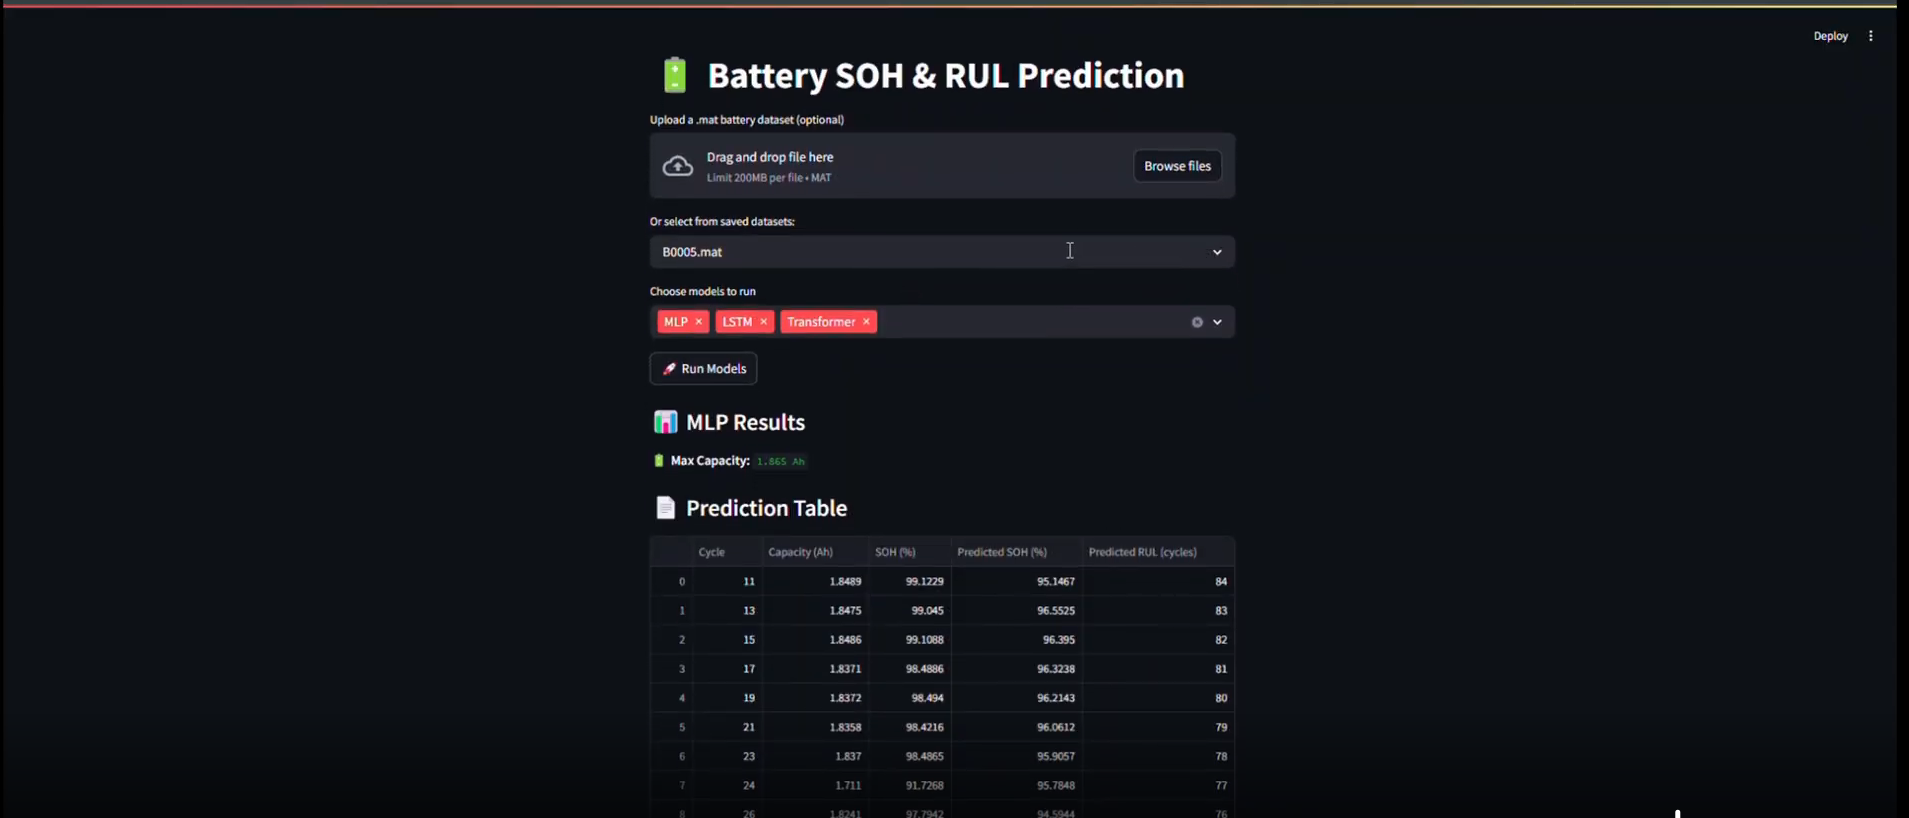
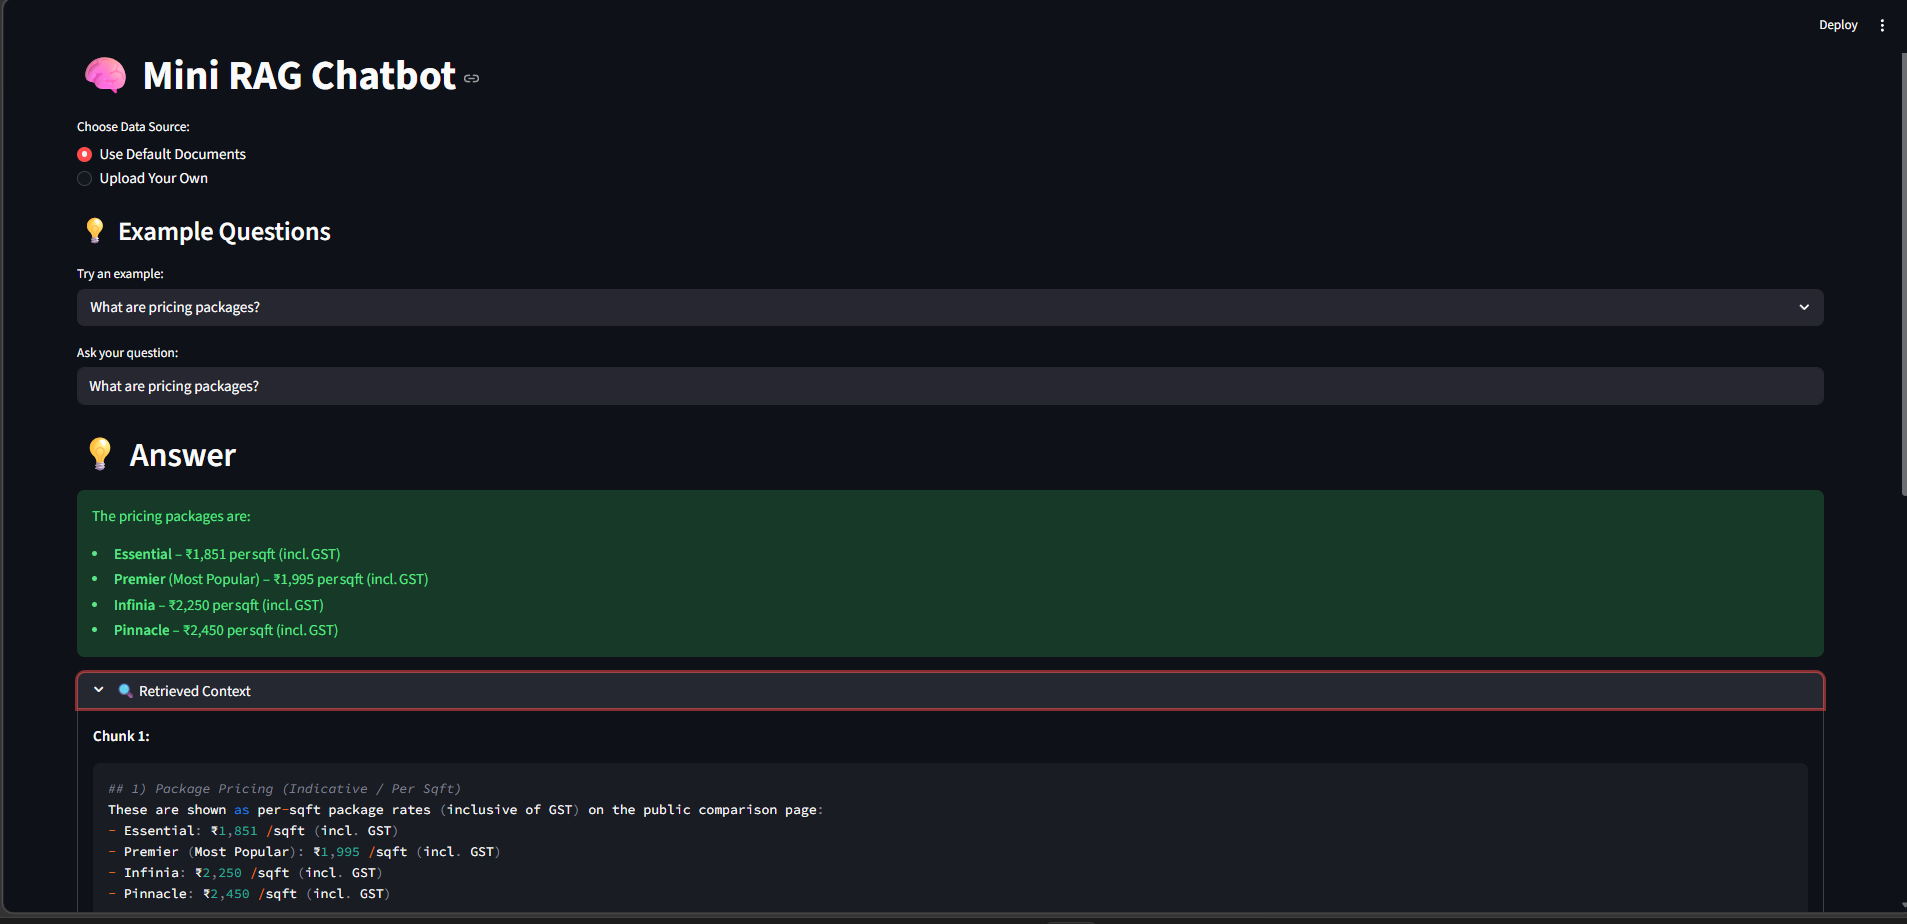
project fixes

diff --git a/src/components/ProjectsSection.jsx b/src/components/ProjectsSection.jsx
@@ -3,84 +3,123 @@ import { ArrowRight, ExternalLink, Github } from "lucide-react";
 const projects = [
   {
     id: 1,
-    title: "Smart Campus Energy Monitoring System",
+    title: "Smart Campus Energy Monitoring & Load Forecasting",
     description:
-      "Real-time IoT energy monitoring system using ESP32 and industrial Modbus smart meters, featuring a secure React dashboard and low-latency cloud data pipeline.",
+      "IoT energy management platform deployed at NIT Andhra Pradesh using ESP32, Modbus smart meters, Firebase, and FastAPI. Processes 100+ days of energy data from two campus buildings and provides real-time monitoring and ML-based load forecasting.",
     image: "/projects/project1.png",
-    tags: ["ESP32", "Modbus", "Firebase", "React", "IoT"],
+    tags: ["ESP32", "Modbus RTU", "Firebase", "FastAPI", "React", "ML"],
     demoUrl: "https://energy-meter-realtime-visualization.vercel.app/",
-    githubUrl: "https://github.com/chaitanya-mutyala/energy-meter-realtime-visualization",
+    githubUrl:
+      "https://github.com/chaitanya-mutyala/energy-meter-realtime-visualization",
   },
+
   {
     id: 2,
-    title: "PassTheTorch – Placement Journey Platform",
+    title: "SplitCalsi",
     description:
-      "A platform for students to share placement and GATE preparation journeys with structured content, search, and an AI-powered assistant for instant insights.",
+      "Modern expense-sharing platform inspired by Splitwise with group management, debt simplification, settlements, and real-time balance tracking powered by Supabase.",
     image: "/projects/project2.png",
-    tags: ["React", "Appwrite", "TailwindCSS", "LLM", "Full Stack"],
+    tags: ["React", "JavaScript", "Supabase", "PostgreSQL", "Full Stack"],
+    demoUrl: "https://splitcalsi.vercel.app",
+    githubUrl: "https://github.com/chaitanya-mutyala/splitcalsi",
+  },
+
+  {
+    id: 3,
+    title: "Mini RAG Chatbot",
+    description:
+      "Retrieval-Augmented Generation chatbot using FAISS vector search, Sentence Transformers embeddings, and OpenRouter LLMs to generate grounded responses from uploaded documents.",
+    image: "/projects/project3.png",
+    tags: ["Python", "RAG", "FAISS", "LLM", "NLP"],
+    demoUrl: "https://rag-chatbot-chai.streamlit.app/",
+    githubUrl: "https://github.com/chaitanya-mutyala/rag",
+  },
+
+  {
+    id: 4,
+    title: "Battery SoH & RUL Prediction",
+    description:
+      "Machine learning project for Battery State of Health (SoH) and Remaining Useful Life (RUL) estimation using NASA battery degradation datasets with preprocessing, feature engineering, and forecasting models.",
+    image: "/projects/project4.png",
+    tags: ["Python", "LSTM", "Time Series", "Forecasting"],
+    demoUrl:
+      "https://github.com/chaitanya-mutyala/EE363/tree/main/25/08_209/code",
+    githubUrl:
+      "https://github.com/chaitanya-mutyala/EE363/tree/main/25/08_209/code",
+  },
+
+  {
+    id: 5,
+    title: "PassTheTorch",
+    description:
+      "Community platform where students share placement and GATE preparation journeys, featuring structured stories, search capabilities, and AI-assisted insights for future aspirants.",
+    image: "/projects/project5.png",
+    tags: ["React", "Firebase", "AI", "Tailwind", "Full Stack"],
     demoUrl: "https://pass-the-torch.vercel.app/",
     githubUrl: "https://github.com/chaitanya-mutyala/PassTheTorch",
   },
+
   {
-    id: 3,
-    title: "Battery SoH & RUL Prediction",
+    id: 6,
+    title: "Ambati Vari Tea Podi",
     description:
-      "Machine learning project to predict battery State of Health and Remaining Useful Life using NASA degradation datasets and deep learning models.",
-    image: "/projects/project3.png",
-    tags: ["Python", "TensorFlow", "LSTM", "ML", "Data Analysis"],
-    demoUrl: "https://github.com/chaitanya-mutyala/EE363/tree/main/25/08_209/code",
-    githubUrl: "https://github.com/chaitanya-mutyala/EE363/tree/main/25/08_209/code",
+      "Production-ready e-commerce platform featuring guest checkout, Firebase authentication, live order management, inventory controls, and a secure admin dashboard.",
+    image: "/projects/project6.png",
+    tags: ["React", "Firebase", "E-Commerce", "Tailwind"],
+    demoUrl: "https://tea-powder-eight.vercel.app/",
+    githubUrl: "https://github.com/chaitanya-mutyala/tea-powder",
   },
 ];
 
 export const ProjectsSection = () => {
   return (
     <section id="projects" className="py-24 px-4 relative">
-      <div className="container mx-auto max-w-5xl">
+      <div className="container mx-auto max-w-6xl">
         <h2 className="text-3xl md:text-4xl font-bold mb-4 text-center">
-          Featured <span className="text-primary"> Projects</span>
+          Featured <span className="text-primary">Projects</span>
         </h2>
 
-        <p className="text-center text-muted-foreground mb-12 max-w-2xl mx-auto">
-          A selection of projects showcasing my experience in software
-          development, IoT systems, and machine learning.
+        <p className="text-center text-muted-foreground mb-12 max-w-3xl mx-auto">
+          Projects spanning IoT, full-stack development, machine learning, and
+          AI applications, built to solve real-world problems and deployed for
+          active use.
         </p>
 
-        <div className="grid grid-cols-1 md:grid-cols-2 lg:grid-cols-3 gap-8">
+        <div className="grid grid-cols-1 md:grid-cols-2 xl:grid-cols-3 gap-8">
           {projects.map((project) => (
             <div
               key={project.id}
-              className="group bg-card rounded-lg overflow-hidden shadow-xs card-hover"
+              className="group bg-card rounded-xl overflow-hidden border border-border/50 shadow-sm hover:shadow-lg transition-all duration-300"
             >
-              <div className="h-48 overflow-hidden">
+              <div className="h-52 overflow-hidden">
                 <img
                   src={project.image}
                   alt={project.title}
-                  className="w-full h-full object-cover transition-transform duration-500 group-hover:scale-110"
+                  className="w-full h-full object-cover transition-transform duration-500 group-hover:scale-105"
                 />
               </div>
 
-              <div className="p-6">
+              <div className="p-6 flex flex-col min-h-[320px]">
                 <div className="flex flex-wrap gap-2 mb-4">
                   {project.tags.map((tag, idx) => (
                     <span
                       key={idx}
-                      className="px-2 py-1 text-xs font-medium border rounded-full bg-secondary text-secondary-foreground"
+                      className="px-2 py-1 text-xs font-medium rounded-full bg-secondary text-secondary-foreground"
                     >
                       {tag}
                     </span>
                   ))}
                 </div>
 
-                <h3 className="text-xl font-semibold mb-1">
+                <h3 className="text-xl font-semibold mb-3">
                   {project.title}
                 </h3>
 
-                <p className="text-muted-foreground text-sm mb-4">
+                <p className="text-muted-foreground text-sm leading-relaxed flex-grow">
                   {project.description}
                 </p>
 
-                <div className="flex space-x-4">
+                <div className="flex items-center gap-4 mt-6">
                   <a
                     href={project.demoUrl}
                     target="_blank"
@@ -90,6 +129,7 @@ export const ProjectsSection = () => {
                   >
                     <ExternalLink size={20} />
                   </a>
+
                   <a
                     href={project.githubUrl}
                     target="_blank"
@@ -105,17 +145,19 @@ export const ProjectsSection = () => {
           ))}
         </div>
 
-        <div className="text-center mt-12">
+        <div className="text-center mt-14">
           <a
-            className="cosmic-button w-fit flex items-center mx-auto gap-2"
+            href="https://github.com/chaitanya-mutyala"
             target="_blank"
             rel="noopener noreferrer"
-            href="https://github.com/chaitanya-mutyala/"
+            className="cosmic-button inline-flex items-center gap-2"
           >
-            View More on GitHub <ArrowRight size={16} />
+            View More on GitHub
+            <ArrowRight size={16} />
           </a>
         </div>
       </div>
     </section>
   );
 };
+